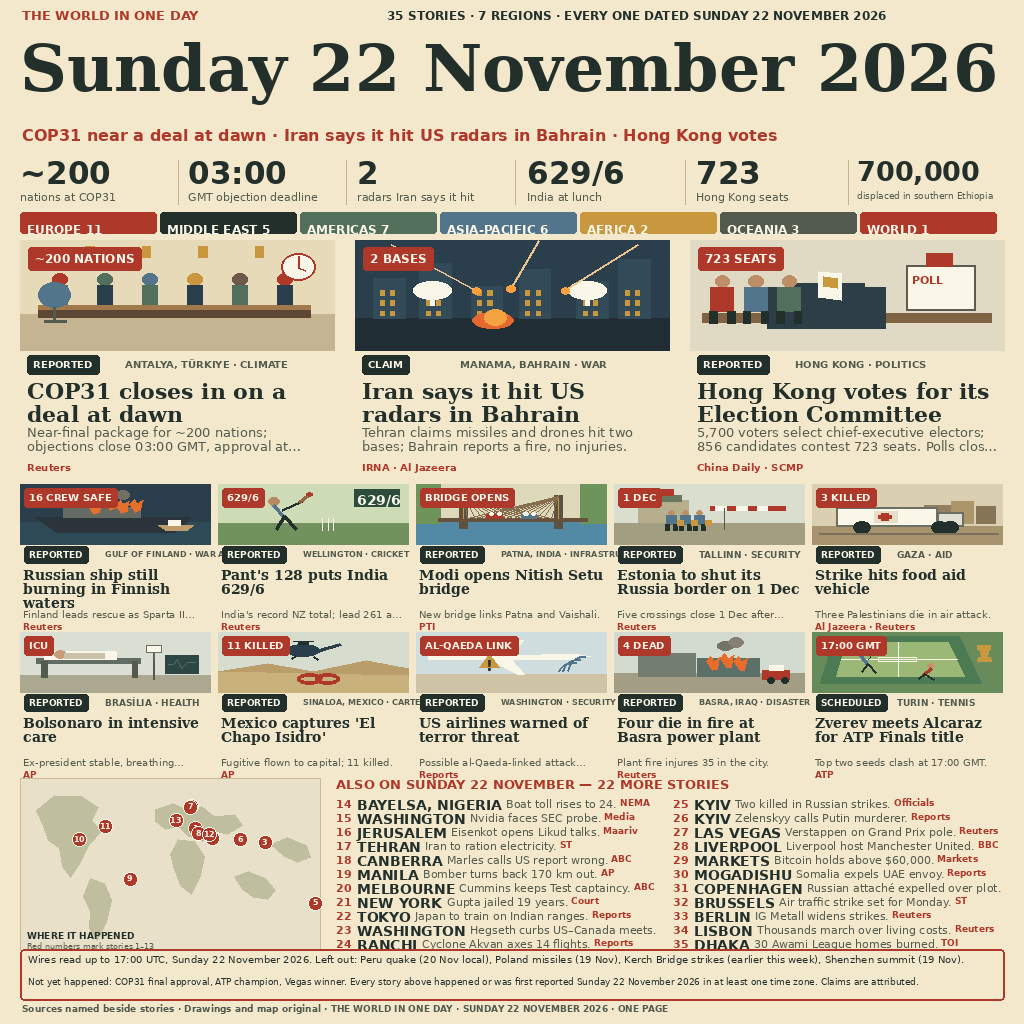
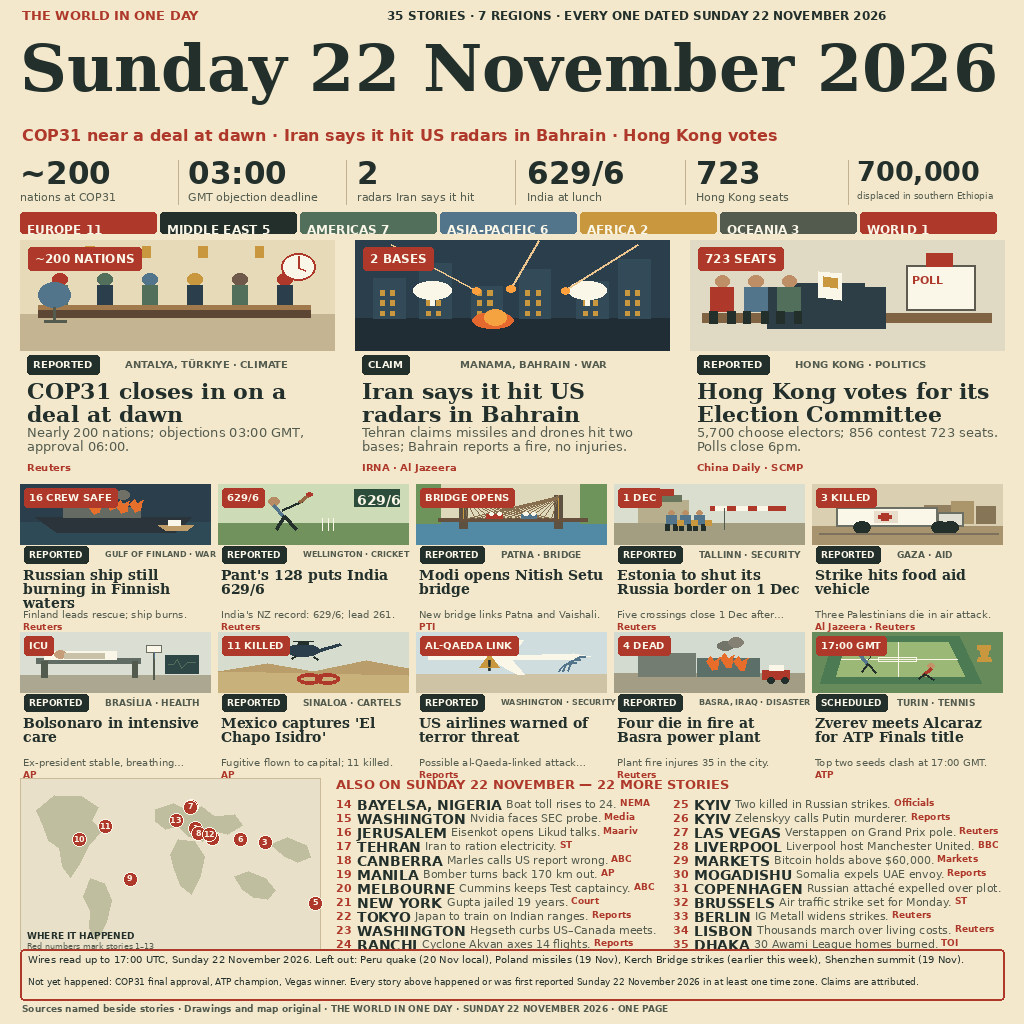
Fix truncated decks 1,3,4,5 and clipped kickers 4,6,10 (candidate99)

diff --git a/render99.py b/render99.py
@@ -192,16 +192,16 @@ def scene(kind, x, y, w, h, compact=False):
         B(262,30,282,38,GOLD); P([(264,38),(280,38),(277,55),(267,55)],GOLD); B(263,55,282,59,GOLD); B(261,59,284,64,GOLD)
 
 stories = [
-('ANTALYA, TÜRKIYE · CLIMATE','COP31 closes in on a deal at dawn','Near-final package for ~200 nations; objections close 03:00 GMT, approval at 06:00.','Reuters','~200 NATIONS','reported',1),
+('ANTALYA, TÜRKIYE · CLIMATE','COP31 closes in on a deal at dawn','Nearly 200 nations; objections 03:00 GMT, approval 06:00.','Reuters','~200 NATIONS','reported',1),
 ('MANAMA, BAHRAIN · WAR','Iran says it hit US radars in Bahrain','Tehran claims missiles and drones hit two bases; Bahrain reports a fire, no injuries.','IRNA · Al Jazeera','2 BASES','claim',2),
-('HONG KONG · POLITICS','Hong Kong votes for its Election Committee','5,700 voters select chief-executive electors; 856 candidates contest 723 seats. Polls close 6pm.','China Daily · SCMP','723 SEATS','reported',3),
-('GULF OF FINLAND · WAR AT SEA','Russian ship still burning in Finnish waters','Finland leads rescue as Sparta II burns.','Reuters','16 CREW SAFE','reported',4),
-('WELLINGTON · CRICKET','Pant\'s 128 puts India 629/6','India\'s record NZ total; lead 261 at lunch.','Reuters','629/6','reported',5),
-('PATNA, INDIA · INFRASTRUCTURE','Modi opens Nitish Setu bridge','New bridge links Patna and Vaishali.','PTI','BRIDGE OPENS','reported',6),
+('HONG KONG · POLITICS','Hong Kong votes for its Election Committee','5,700 choose electors; 856 contest 723 seats. Polls close 6pm.','China Daily · SCMP','723 SEATS','reported',3),
+('GULF OF FINLAND · WAR','Russian ship still burning in Finnish waters','Finland leads rescue; ship burns.','Reuters','16 CREW SAFE','reported',4),
+('WELLINGTON · CRICKET','Pant\'s 128 puts India 629/6','India\'s NZ record: 629/6; lead 261.','Reuters','629/6','reported',5),
+('PATNA · BRIDGE','Modi opens Nitish Setu bridge','New bridge links Patna and Vaishali.','PTI','BRIDGE OPENS','reported',6),
 ('TALLINN · SECURITY','Estonia to shut its Russia border on 1 Dec','Five crossings close 1 Dec after sabotage bid; families hurry across.','Reuters','1 DEC','reported',7),
 ('GAZA · AID','Strike hits food aid vehicle','Three Palestinians die in air attack.','Al Jazeera · Reuters','3 KILLED','reported',8),
 ('BRASÍLIA · HEALTH','Bolsonaro in intensive care','Ex-president stable, breathing unaided.','AP','ICU','reported',9),
-('SINALOA, MEXICO · CARTELS','Mexico captures \'El Chapo Isidro\'','Fugitive flown to capital; 11 killed.','AP','11 KILLED','reported',10),
+('SINALOA · CARTELS','Mexico captures \'El Chapo Isidro\'','Fugitive flown to capital; 11 killed.','AP','11 KILLED','reported',10),
 ('WASHINGTON · SECURITY','US airlines warned of terror threat','Possible al-Qaeda-linked attack warned before Thanksgiving.','Reports','AL-QAEDA LINK','reported',11),
 ('BASRA, IRAQ · DISASTER','Four die in fire at Basra power plant','Plant fire injures 35 in the city.','Reuters','4 DEAD','reported',12),
 ('TURIN · TENNIS','Zverev meets Alcaraz for ATP Finals title','Top two seeds clash at 17:00 GMT.','ATP','17:00 GMT','scheduled',13),
